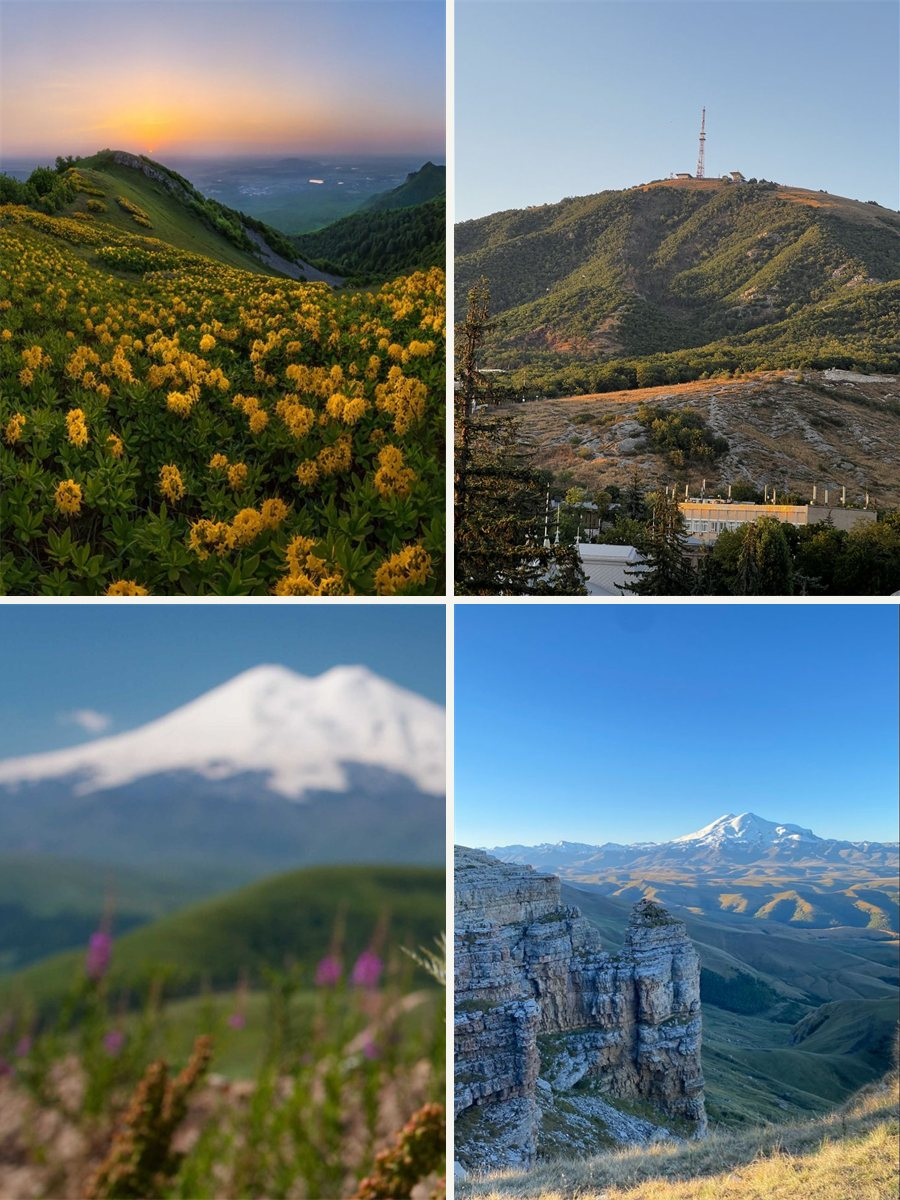
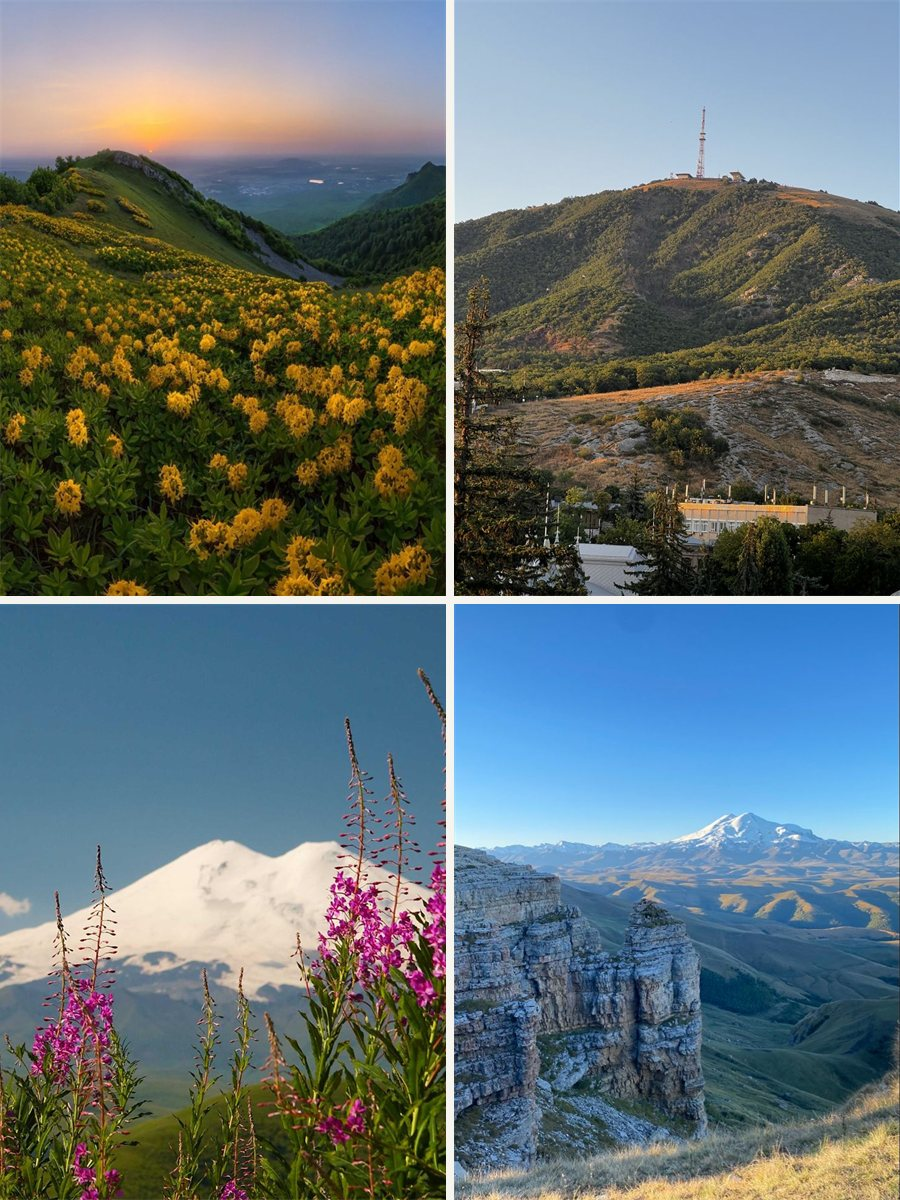
Update storefront

Changed region(s): [[0.0, 0.4933, 0.4978, 1.0]]

diff --git a/index.html b/index.html
@@ -18,12 +18,12 @@
   <link rel="preconnect" href="https://fonts.gstatic.com" crossorigin>
   <link rel="stylesheet" href="https://fonts.googleapis.com/css2?family=Playfair+Display:ital,wght@0,600;0,800;1,600&family=Manrope:wght@400;500;700;800&display=swap">
   <!-- ?v= проставляет publish-webapp.ps1 при каждой публикации, чтобы Telegram не брал старые файлы из кэша -->
-  <link rel="stylesheet" href="style.css?v=20260911172737">
+  <link rel="stylesheet" href="style.css?v=20260911173203">
 </head>
 <body>
   <main id="app"></main>
   <div id="story" class="story-viewer" hidden></div>
-  <script src="data.js?v=20260911172737"></script>
-  <script src="app.js?v=20260911172737"></script>
+  <script src="data.js?v=20260911173203"></script>
+  <script src="app.js?v=20260911173203"></script>
 </body>
 </html>

diff --git a/data.js b/data.js
@@ -62,8 +62,8 @@ window.SHOP = {
       shape: "elbrus",
       color: "#e5412f",
       photo: "img/elbrus.jpg",
-      photoLabel: "Эльбрус и горный чертополох",
-      focus: "25% 50%",
+      photoLabel: "Эльбрус и цветущий иван-чай",
+      focus: "40% 50%", // гора и иван-чай справа
       price: 450,
       weight: 50,
       taste: "Насыщенный, пряный, с кислинкой",
